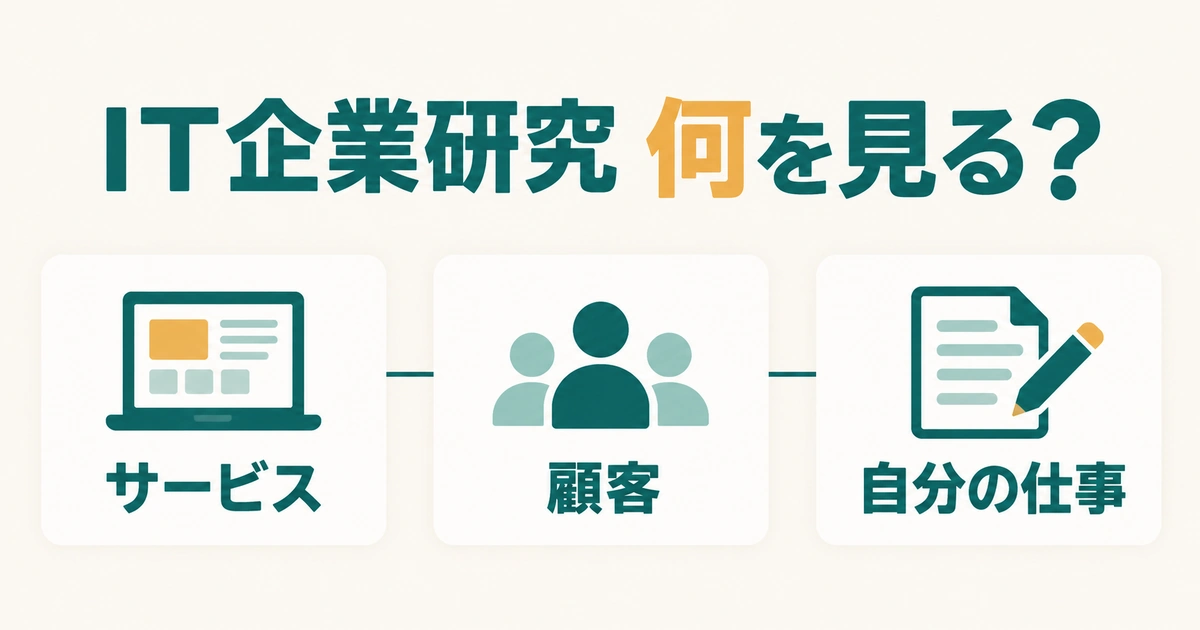
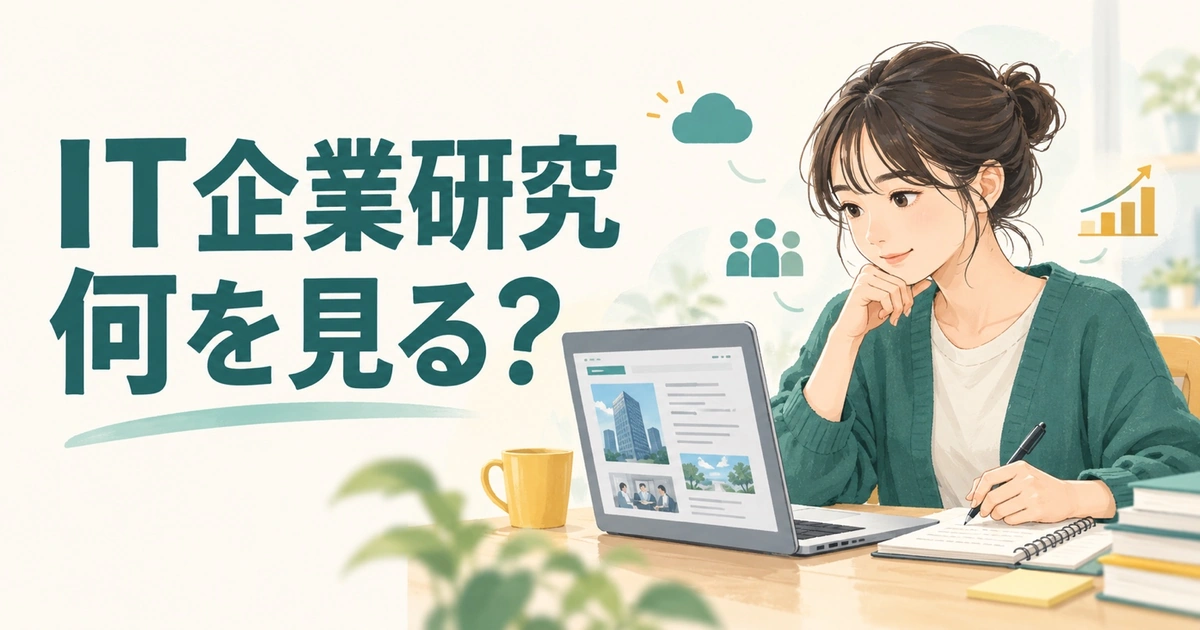
fix: NARU記事043〜045のアイキャッチを統一 (#34)
Replace cover WebP for three published articles after user preview approval; preserve article body images and content.

diff --git a/data/article-runs/2026-09-27-card-refresh-043-045.md b/data/article-runs/2026-09-27-card-refresh-043-045.md
@@ -1,0 +1,17 @@
+# 2026-09-27｜記事043・044・045 card画像差し替え QA記録
+
+変更範囲：`public/images/articles/*-card.webp` の下記3ファイルのみ。サイト本文・本文内画像01/02/03・frontmatterは無変更。このファイルは変更追跡と記事用CIの実行対象を満たすための非公開QAログ。
+
+| 記事 | cardファイル | 新Git blob SHA | Driveの既存WebPファイルID |
+| --- | --- | --- | --- |
+| 043 内定承諾前 | `second-new-grad-it-offer-acceptance-checks-card.webp` | `a8facdee8428d4873c2fbd650e4d1ee8c483e885` | `1DGTUel_5gRqZtMPHmcf8YYgc8BRHvtgl` |
+| 044 入社後90日 | `second-new-grad-it-first-90-days-card.webp` | `697a8eaa7840de1f1c0eb04fd0f09ba8beb6a539` | `156qlbhSeP2ADgejUqmU14Qm7HwEMs6I_` |
+| 045 企業研究 | `second-new-grad-it-company-research-card.webp` | `836b2b625b925c433777855b9bcdad16fbc9ed93` | `1OuBAFupiOXTwASJNXLGvQW7GYC0H_pV9` |
+
+- ユーザーが2026-09-27に3画像を明示指定。
+- 3画像はすべて1200×630 WebP。EXIFとICC埋め込みなし。画像タイトル・テーマとの一致を確認。
+- Google Drive `NARU/01_Content/NARU-043〜045/images/` の既存cardファイルを同一ファイルIDのまま更新、読み戻し済み。各images/はcard/01/02/03の4点、重複なし。
+- 添付された元JPEGを各記事の`originals/`に保存。
+- Driveの共通画像ルールはcard部分のみ編集イラスト型へ改訂。各記事の`04_Design`正本および`01_Content/image-prompts.md`を同期。
+- このログ追加によってArticle Factory Validationの`data/article-runs/**`パス条件を満たし、最新PR headに対してCIが実行される想定。CIとVercel結果は実際のチェック状態で判断する。
+- 最終的なプレビュー目視はユーザー承認待ち。承認前マージ・本番公開禁止。
